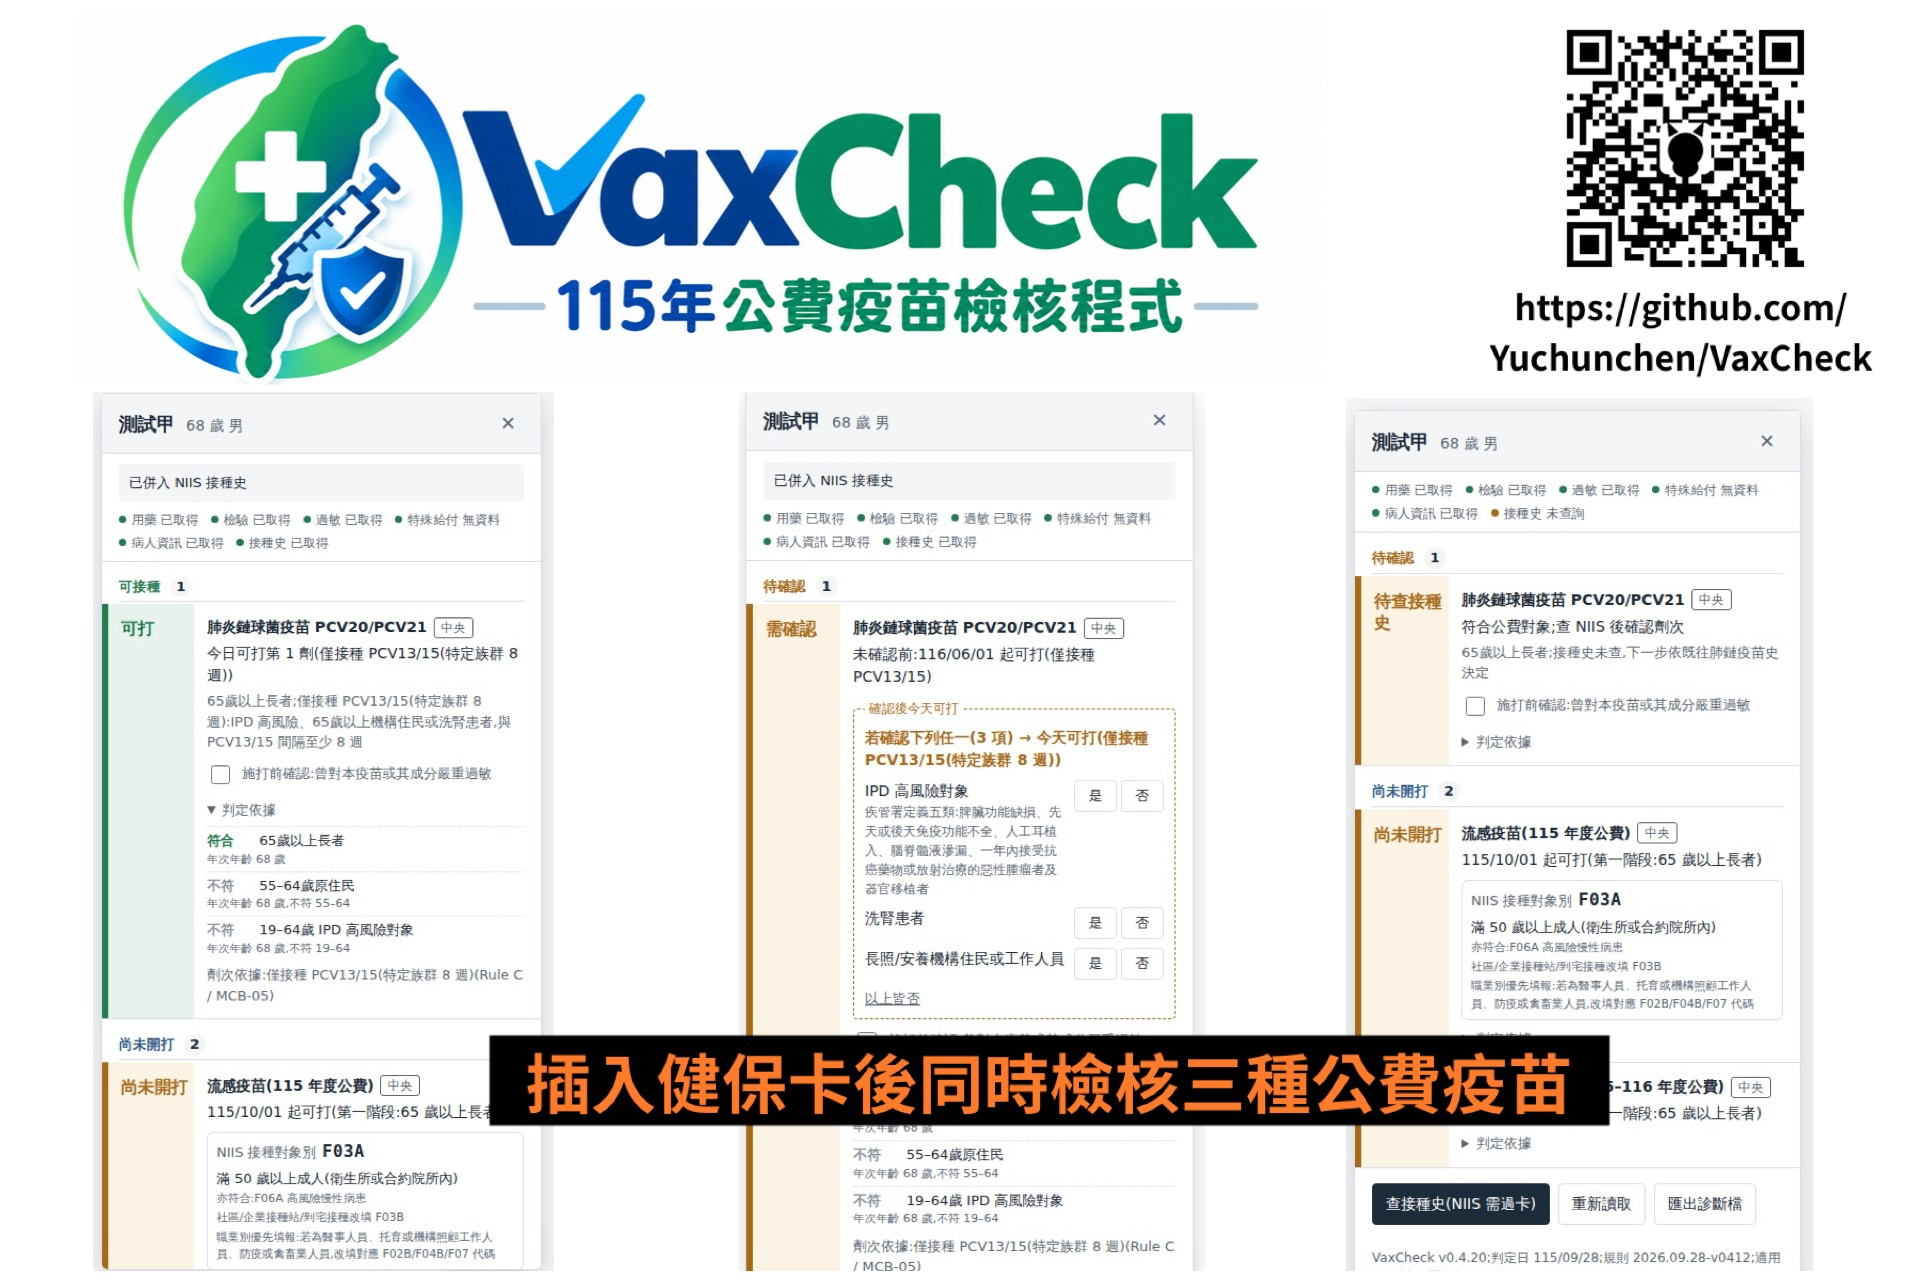
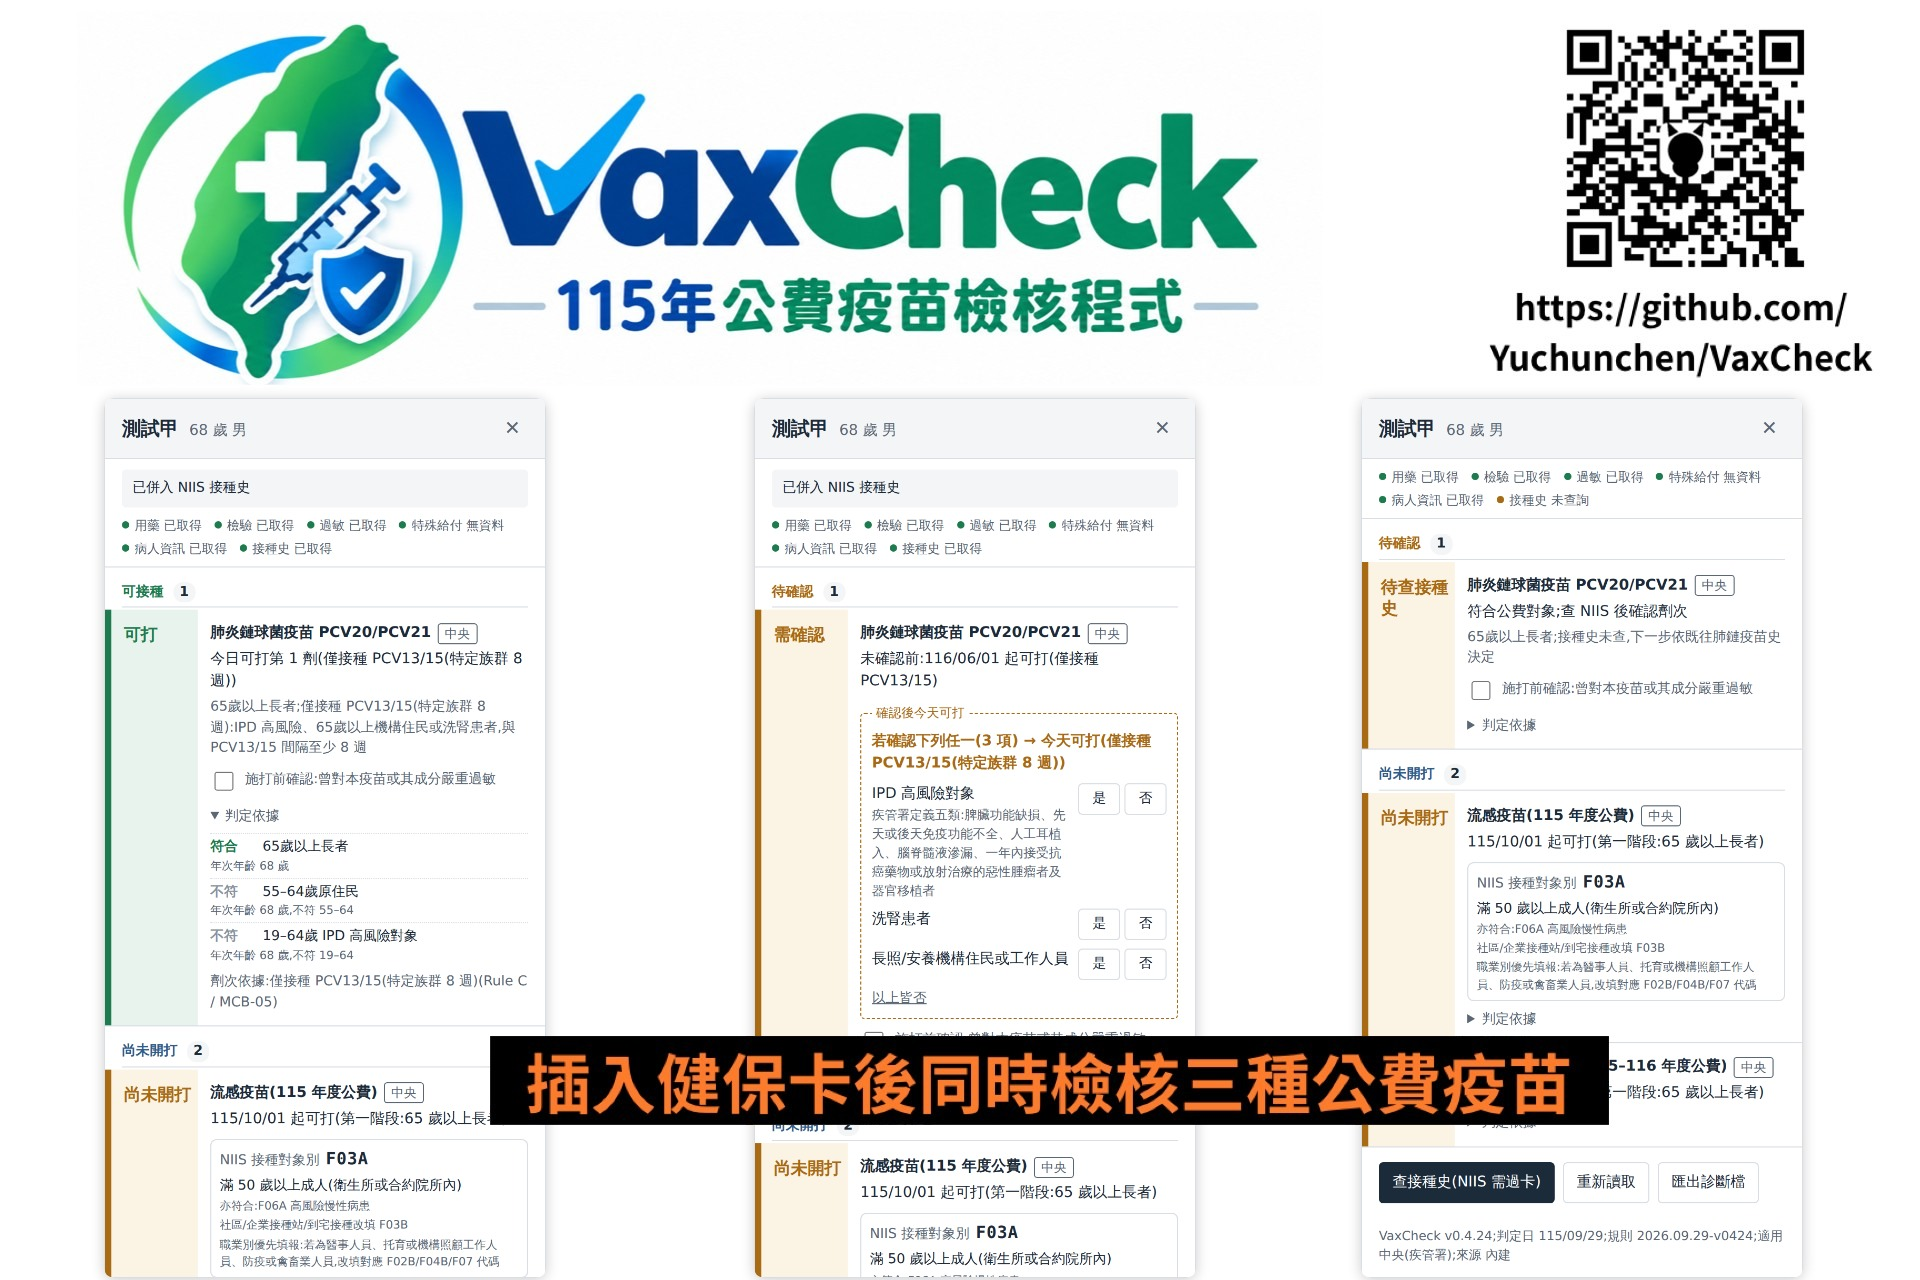
README: 執行畫面截圖換成 v0.4.24;更正肺鏈狀態文字
- docs/img/run-panels-overview.jpg:三個面板(可接種/待確認/尚未查 NIIS 接種史)改為 v0.4.24 真外掛畫面
  (e2e 假健保雲端,2 倍解析度);頁首 logo/QR 與橫幅沿用原海報
- README:截圖版號改 v0.4.24;肺鏈狀態更正為「待查接種史」,並補 COVID-19「尚未開打」
- 僅文件變更,不改版號

Claude-Session: https://claude.ai/code/session_01TBmLwQzNJ8nWQ5UVWH426Z

diff --git a/README.md b/README.md
@@ -20,13 +20,13 @@
 
 ## 執行畫面
 
-插入健保卡後,按瀏覽器標題列的 VaxCheck 圖示,同時檢核三種公費疫苗(肺炎鏈球菌、流感、COVID-19)。下圖為合成病患「測試甲」(68 歲男,非真實資料;截圖為 v0.4.20,實際版面以最新版為準):
+插入健保卡後,按瀏覽器標題列的 VaxCheck 圖示,同時檢核三種公費疫苗(肺炎鏈球菌、流感、COVID-19)。下圖為合成病患「測試甲」(68 歲男,非真實資料;截圖為 v0.4.24):
 
 <img src="docs/img/run-panels-overview.jpg" width="900" alt="VaxCheck 面板三個畫面:左「可接種」(展開判定依據)、中「待確認」(確認後今天可打,有是/否鈕)、右「尚未開打」(尚未查 NIIS 接種史)">
 
 - **左:可接種**。顯示今日可打的劑次,展開「判定依據」可看每個對象群符合或不符的原因。
 - **中:待確認**。「確認後今天可打」的條件有「是/否」鈕,勾了就重新判定;不確定可按「以上皆否」。
-- **右:尚未查 NIIS 接種史**。肺鏈顯示「待接種史」、流感顯示「尚未開打」與 NIIS 接種對象別代碼;按「查接種史(NIIS 需過卡)」補查,「匯出診斷檔」供回報問題。
+- **右:尚未查 NIIS 接種史**。肺鏈顯示「待查接種史」、流感與 COVID-19 顯示「尚未開打」(流感另附 NIIS 接種對象別代碼);按「查接種史(NIIS 需過卡)」補查,「匯出診斷檔」供回報問題。
 
 安裝後,瀏覽器工具列會有 VaxCheck 圖示(第一次要從拼圖圖示釘選),擴充功能頁 `chrome://extensions` 的 VaxCheck 卡片可「重新載入」或關閉(截圖版號為 v0.4.19,以實際安裝的版本為準):
 
